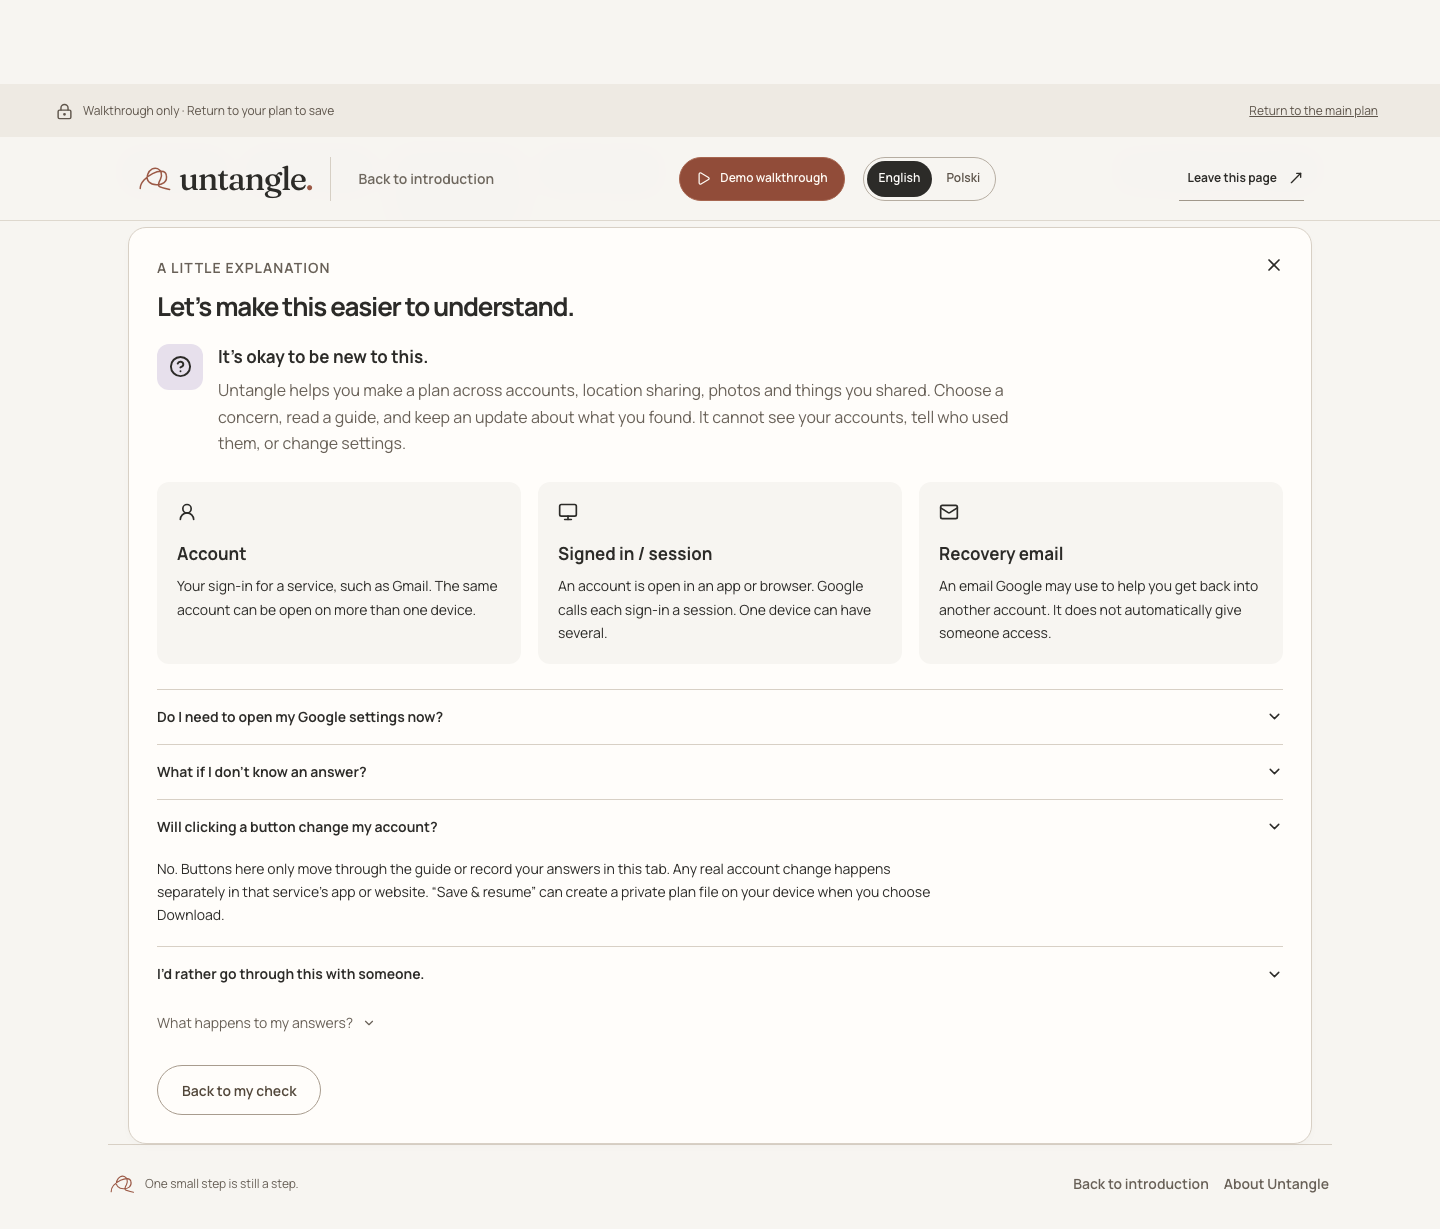
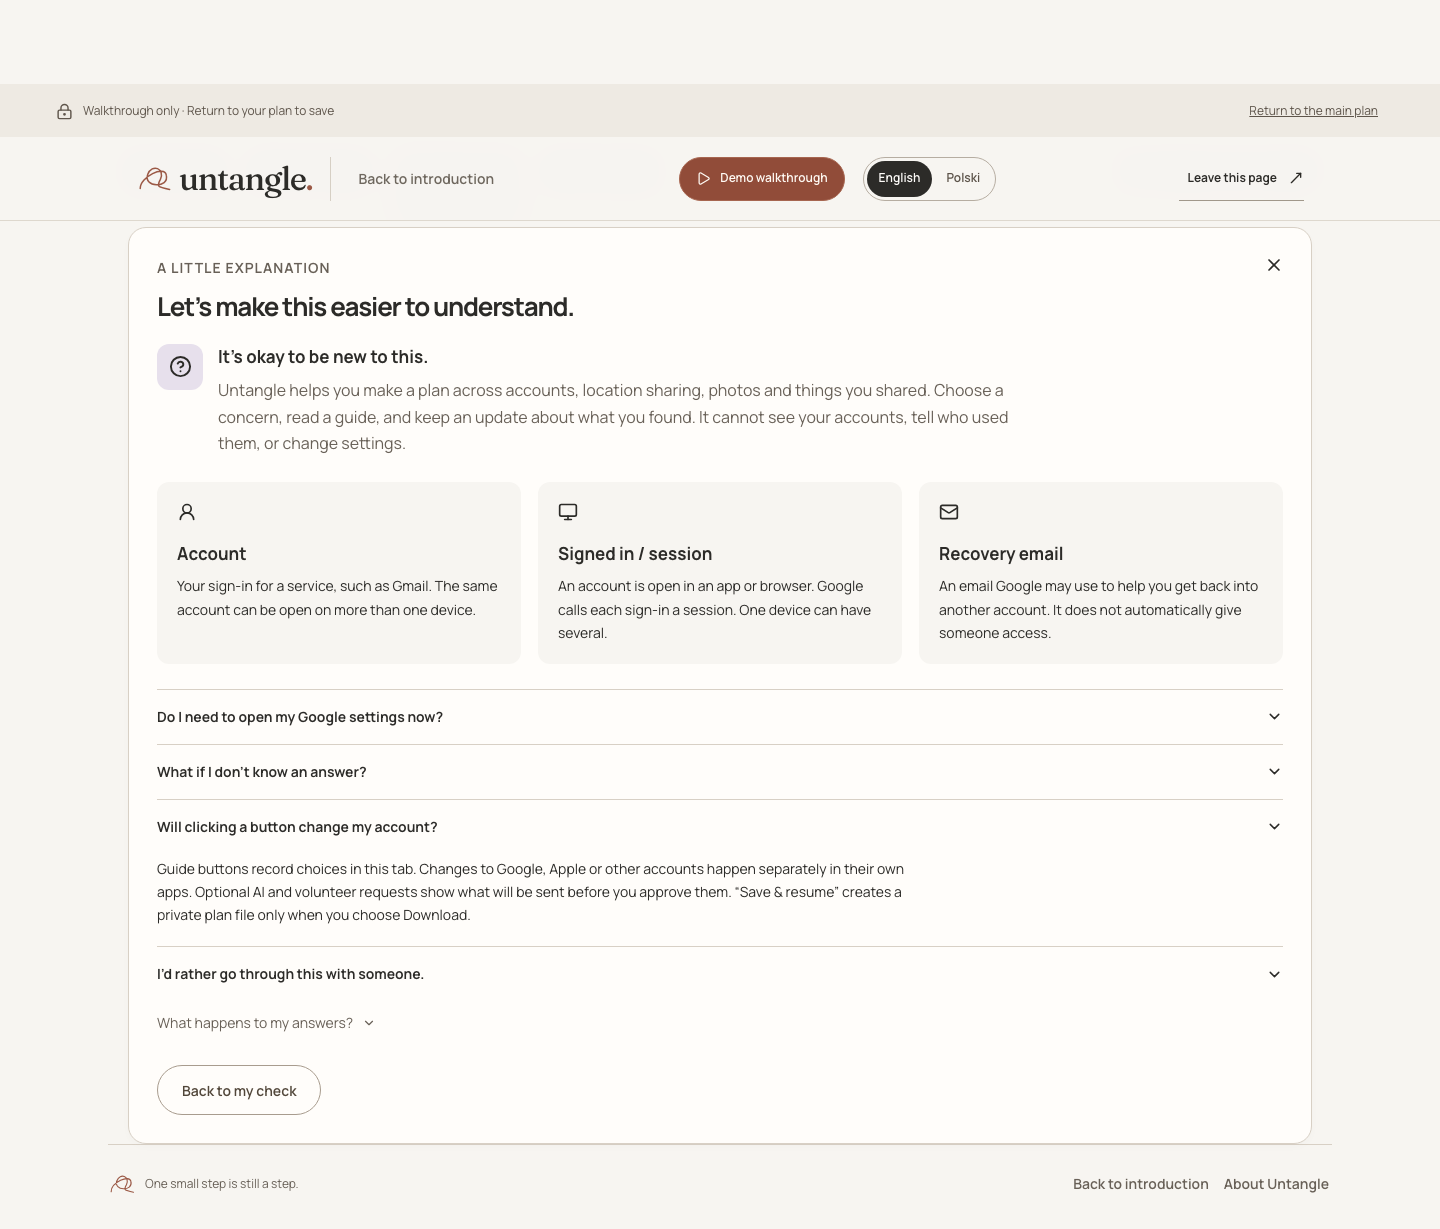
fix: preserve guide state and finish focus before typing

Changed region(s): [[0.125, 0.6802, 0.625, 0.773]]

diff --git a/src/features/plan/Platform.tsx b/src/features/plan/Platform.tsx
@@ -1,5 +1,5 @@
 import { useTranslation } from '../../i18n/context'
-import { useEffect, useImperativeHandle, useState } from 'react'
+import { useLayoutEffect, useImperativeHandle, useState } from 'react'
 import { ArrowLeft, ArrowRight, ArrowUpRight, BookOpen, Check, ChevronRight, CircleHelp, Clock3, Download, HeartHandshake, Home, Image, KeyRound, LayoutGrid, ListChecks, MapPin, MessageCircle, Plus, Search, ShieldCheck, Sparkles, Users, X } from 'lucide-react'
 import type { LucideIcon } from 'lucide-react'
 import { Button } from '../../components/Primitives'
@@ -24,7 +24,7 @@ const External = GuidanceLink
 function Badge({ status }: { status: Status }) {
   const { translate } = useTranslation()
  return <span className={`p-badge ${status}`}>{status === 'reviewed' ? <Check size={13} aria-hidden="true"/> : status === 'later' ? <Clock3 size={13} aria-hidden="true"/> : null}{translate(statusLabels[status])}</span> }
-function focusHeading(inGuide = false) { requestAnimationFrame(() => { const heading = document.getElementById('platform-heading'); heading?.focus({ preventScroll: true }); if (inGuide) heading?.scrollIntoView({ block: 'start', behavior: 'instant' }); else window.scrollTo({ top: 0, behavior: 'instant' }) }) }
+function focusHeading(inGuide = false) { const heading = document.getElementById('platform-heading'); heading?.focus({ preventScroll: true }); if (inGuide) heading?.scrollIntoView({ block: 'start', behavior: 'instant' }); else window.scrollTo({ top: 0, behavior: 'instant' }) }
 
 export function Platform({ onWalkthrough, homeRef }: { initialPlan?: Plan; onWalkthrough: () => void; homeRef: React.Ref<{ home: () => void }> }) {
   const { translate, href: localizeLink } = useTranslation(), t = useWords()
@@ -39,7 +39,9 @@ export function Platform({ onWalkthrough, homeRef }: { initialPlan?: Plan; onWal
   const reviewed = ids.filter(id => plan.entries[id]?.status === 'reviewed').length
   const go = (destination: View) => { navigate({ area: 'plan', view: destination, mode: plan.example ? 'example' : 'personal' }); setNotice('') }
   useImperativeHandle(homeRef, () => ({ home: () => go('plan') }))
-  useEffect(() => { if (route.area === 'plan') focusHeading(!!route.task) }, [route])
+  // Finish route focus before the new screen becomes interactive. A deferred
+  // animation-frame focus can interrupt typing into the newly opened form.
+  useLayoutEffect(() => { if (route.area === 'plan') focusHeading(!!route.task) }, [route])
   const openTask = (id: TaskId) => { navigate({ area: 'plan', view: view === 'setup' ? 'plan' : view, task: id, mode: plan.example ? 'example' : 'personal' }); setNotice('') }
   const start = () => { if (!session.setup[session.mode]) updateSetup({ concerns: plan.concerns, services: plan.services }); navigate({ area: 'plan', view: 'setup', mode: plan.example ? 'example' : 'personal' }) }
   const demo = () => { selectMode('example'); setPlan(examplePlan(translate)); updateSetup(null, 'example'); navigate({ area: 'plan', view: 'plan', mode: 'example' }) }

diff --git a/src/app/App.tsx b/src/app/App.tsx
@@ -1,4 +1,5 @@
 import { lazy, Suspense, useEffect, useState } from 'react'
+import type { MouseEvent } from 'react'
 import { flushSync } from 'react-dom'
 import { Experience } from '../features/companion/Experience'
 import type { Plan } from '../features/plan/model'
@@ -13,6 +14,19 @@ import { JudgeWalkthrough } from '../features/walkthrough/JudgeWalkthrough'
 const Resolve = lazy(() => import('../features/resolve/Resolve').then(m => ({ default: m.Resolve })))
 const Community = lazy(() => import('../features/community/Community').then(m => ({ default: m.Community })))
 const LegacyApp = lazy(() => import('./LegacyApp'))
+function followSection(event: MouseEvent<HTMLDivElement>) {
+  if (event.defaultPrevented || event.button !== 0 || event.metaKey || event.ctrlKey || event.shiftKey || event.altKey) return
+  const link = event.target instanceof Element ? event.target.closest<HTMLAnchorElement>('a[href^="#"]') : null
+  if (!link || link.target || link.hasAttribute('download')) return
+  const target = document.getElementById(link.hash.slice(1))
+  if (!target || target.closest('[hidden]')) return
+  // Native fragment navigation creates a history entry without our opaque route
+  // key. Move within the page without replacing the user's selected guide.
+  event.preventDefault()
+  if (!target.hasAttribute('tabindex')) target.tabIndex = -1
+  target.focus({ preventScroll: true })
+  target.scrollIntoView({ block: 'start' })
+}
 export default function App() {
   const route = useNavigation(), { translate } = useTranslation(), session = useSession(), account = useAccount()
   const [generation, setGeneration] = useState(0)
@@ -33,7 +47,7 @@ export default function App() {
     if (plan) acceptPlan(plan); else selectMode('personal')
     navigate({ area: 'plan', view: start ? 'setup' : 'plan', mode: plan?.example ? 'example' : 'personal' })
   }
-  return <div className="untangle-app" key={generation}>
+  return <div className="untangle-app" key={generation} onClick={followSection}>
     <div hidden={legacy || route.area === 'tour' || route.area === 'resolve' || route.area === 'people'}><Experience key={session.companionGeneration} openPlan={openPlan}/></div>
     {route.area === 'tour' && <JudgeWalkthrough />}
     {(route.area === 'resolve' || route.area === 'people') && <PlanLoadBoundary fallback={<PlanRecovery/>}><Suspense fallback={<main className="loading-page" role="status">{translate('Opening your plan…')}</main>}>{route.area === 'resolve' ? <Resolve/> : <Community key={account?.userId ?? 'guest'}/>}</Suspense></PlanLoadBoundary>}

diff --git a/tests/e2e/agent-support.spec.ts b/tests/e2e/agent-support.spec.ts
@@ -103,6 +103,25 @@ async function login(page: Page) {
   await b(page, "Verify and sign in").click();
 }
 
+test("assistant and skip shortcuts preserve the selected guide and its progress", async ({ page }) => {
+  await page.goto("/?view=resolve");
+  await page.getByLabel("What are we working on?").selectOption("maps");
+  await b(page, "I’m ready for the next step").click();
+  await expect(page.getByText("STEP 2 / 2", { exact: true })).toBeVisible();
+  await page.getByRole("link", { name: "Ask the assistant about this step", exact: true }).click();
+  await expect(page.locator("#step-assistant")).toBeFocused();
+  await expect(page.getByLabel("What are we working on?")).toHaveValue("maps");
+  await expect(page.getByText("STEP 2 / 2", { exact: true })).toBeVisible();
+  const skip = page.getByRole("link", { name: "Skip to content", exact: true });
+  await skip.focus();
+  await skip.press("Enter");
+  await expect(page.locator("#working-main")).toBeFocused();
+  await expect(page.getByLabel("What are we working on?")).toHaveValue("maps");
+  expect(new URL(page.url()).hash).toBe("");
+  await page.goBack();
+  await expect(page.getByRole("heading", { name: "Choose one thread to begin.", exact: true })).toBeVisible();
+});
+
 test("resolution teaches, records only approved observations, and preserves the plan", async ({
   page,
 }) => {

diff --git a/tests/e2e/audit-journey.spec.ts b/tests/e2e/audit-journey.spec.ts
@@ -109,8 +109,11 @@ test('save, check, return, edit and restore maintain honest file status', async 
   await nav(page, 'Save & resume').click()
   await page.getByLabel('Create a file passphrase').fill('test phrase for an offline file')
   await page.getByLabel('Repeat the file passphrase').fill('test phrase for an offline file')
+  await expect(page.getByLabel('Repeat the file passphrase')).toHaveValue('test phrase for an offline file')
   await page.getByRole('button', { name: 'Show file passphrase', exact: true }).first().click()
   await expect(page.getByLabel('Create a file passphrase')).toHaveAttribute('type', 'text')
+  await expect(page.getByLabel('Create a file passphrase')).toHaveValue('test phrase for an offline file')
+  await expect(page.getByLabel('Repeat the file passphrase')).toHaveValue('test phrase for an offline file')
   const promise = page.waitForEvent('download')
   await page.getByRole('button', { name: 'Download private plan' }).click()
   const download = await promise

diff --git a/tests/e2e/review.spec.ts b/tests/e2e/review.spec.ts
@@ -124,7 +124,8 @@ test('detailed review help gives context and returns to the same question withou
   await expect(page.locator('#info-heading')).toBeFocused()
   await expect(page.locator('#step-heading')).not.toBeVisible()
   await page.getByText('Will clicking a button change my account?', { exact: false }).click()
-  await expect(page.locator('.help-answer[open]')).toContainText('Any real account change happens separately in that service’s app or website.')
+  await expect(page.locator('.help-answer[open]')).toContainText('Changes to Google, Apple or other accounts happen separately in their own apps.')
+  await expect(page.locator('.help-answer[open]')).toContainText('Optional AI and volunteer requests show what will be sent before you approve them.')
   const helpAudit = await new AxeBuilder({ page }).withTags(['wcag2a', 'wcag2aa', 'wcag21aa', 'wcag22aa']).analyze()
   expect(helpAudit.violations).toEqual([])
   await shot(page, 'desktop-help')

diff --git a/tests/e2e/judge-walkthrough.spec.ts b/tests/e2e/judge-walkthrough.spec.ts
@@ -58,6 +58,7 @@ test('exit, restart, finish and opening a result preserve personal notes and unf
   await expect(page.getByLabel('A reminder for yourself')).toHaveValue('Personal unfinished reminder')
   await page.getByRole('navigation', { name: 'Plan navigation' }).getByRole('button', { name: /^My plan/ }).click()
   await page.getByLabel('My note about the whole situation').fill('Keep my personal plan intact')
+  await expect(page.getByLabel('My note about the whole situation')).toHaveValue('Keep my personal plan intact')
   await launch(page).click()
   await toWording(page)
   await page.getByLabel('Suggested wording · Edit if you like').fill('Discard this fictional draft on restart')
